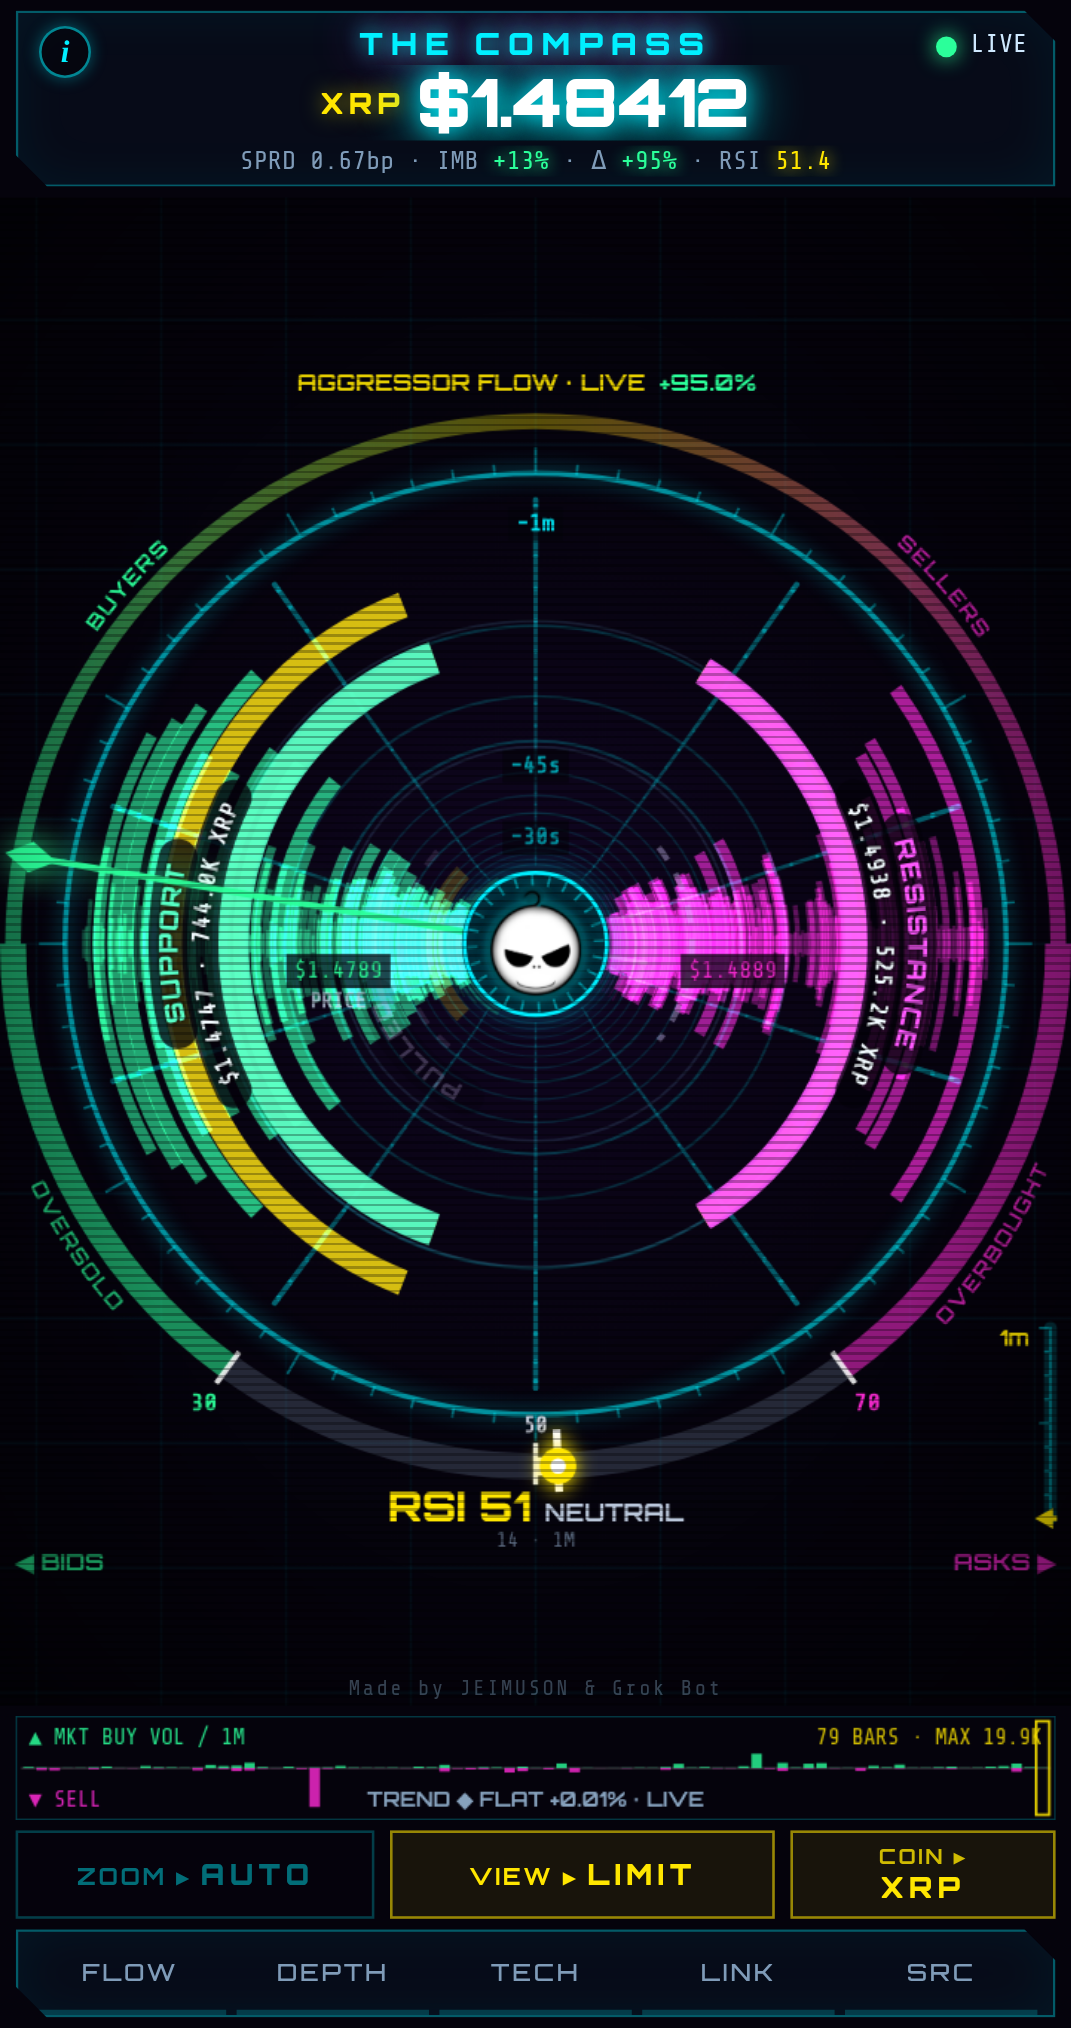
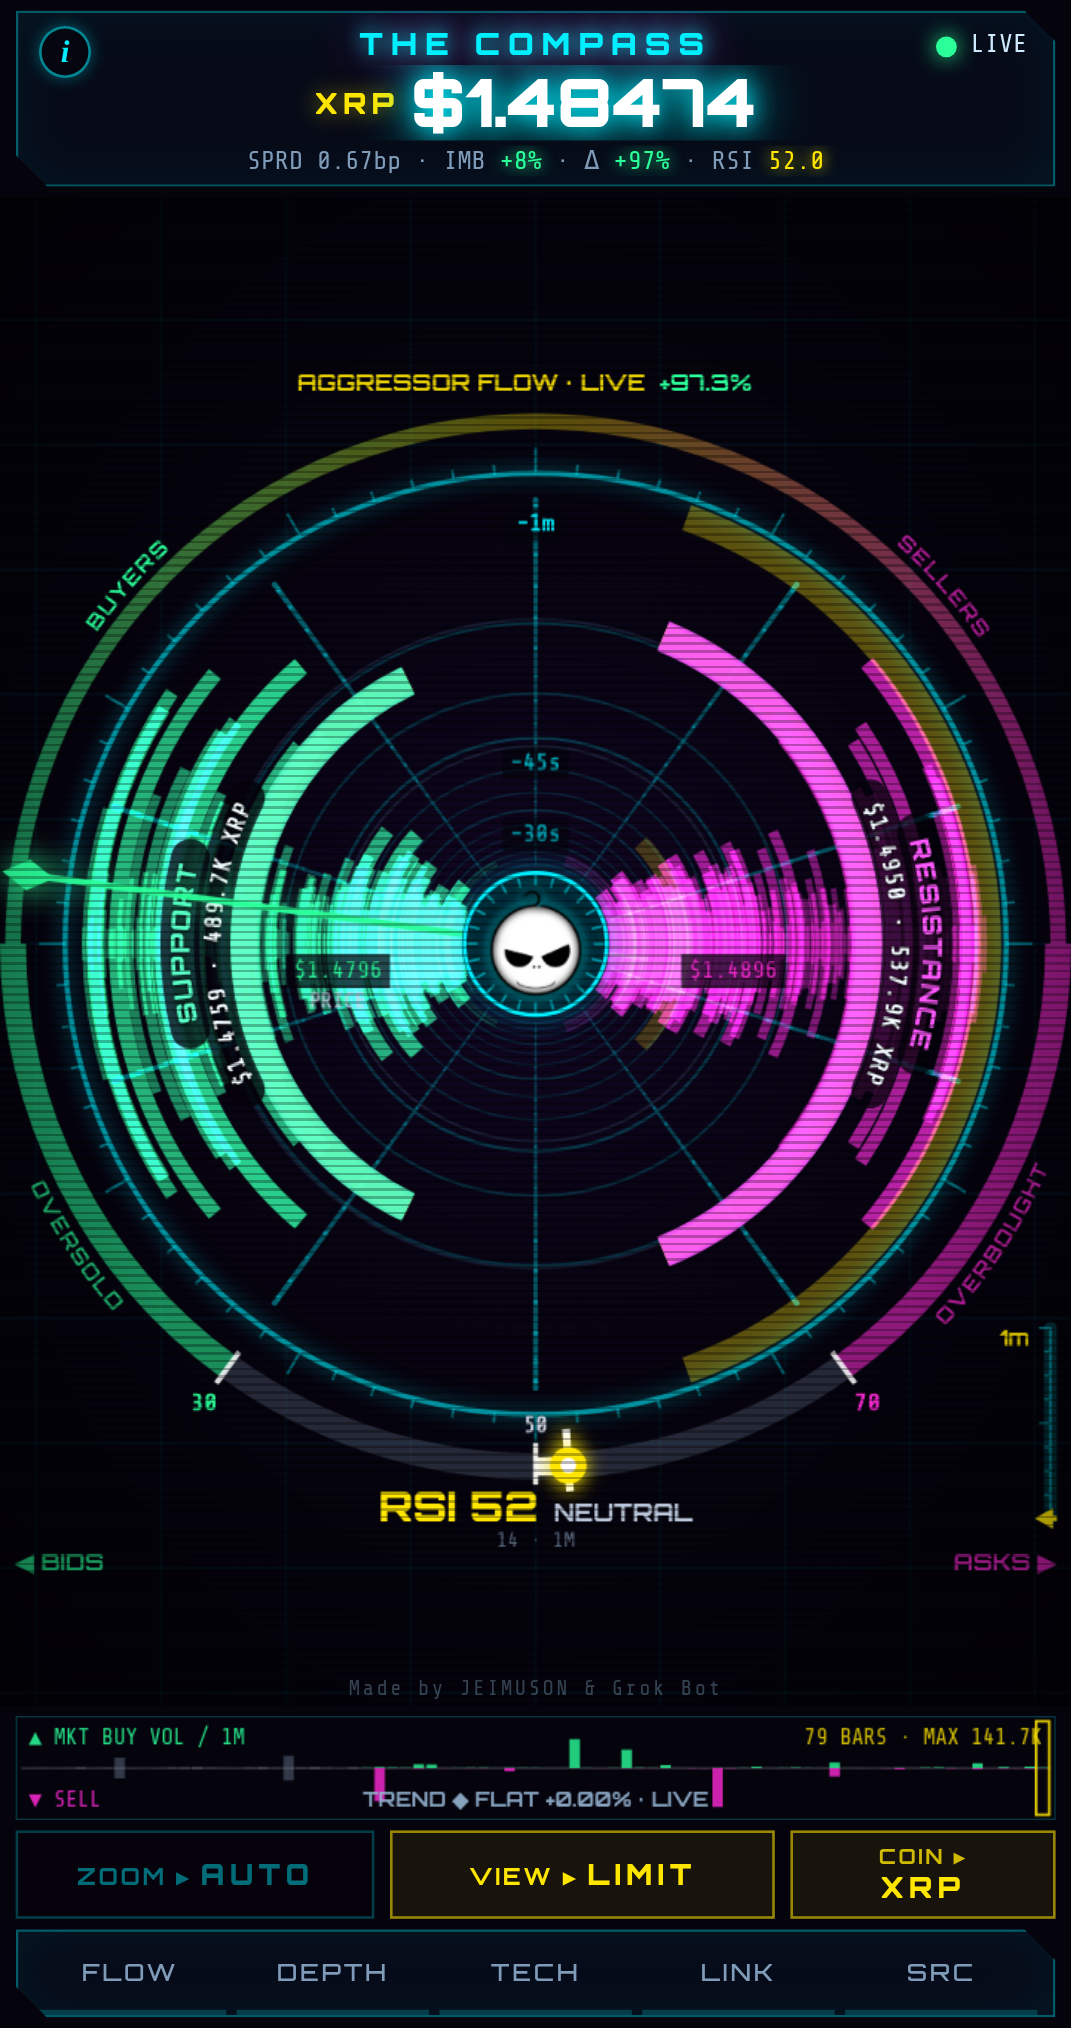
LIMIT AUTO: same traffic measure as MARKET; dead-slow 15s / normal 30s / 2x or burst 60s, MARKET-style ease (build 20261003-1030)

diff --git a/index.html b/index.html
@@ -3,7 +3,7 @@
 <head>
 <meta charset="utf-8">
 <meta http-equiv="Cache-Control" content="no-cache, no-store, must-revalidate"><meta http-equiv="Pragma" content="no-cache"><meta http-equiv="Expires" content="0">
-<script>window.OFC_BUILD='20261003-0725';try{localStorage.removeItem('ofc.trail')}catch(e){};(function(){try{if(!/^https?:/.test(location.protocol))return;fetch(location.pathname+'?_='+Date.now(),{cache:'no-store'}).then(r=>r.text()).then(t=>{const m=t.match(/OFC_BUILD='([^']+)'/);if(m&&m[1]!==window.OFC_BUILD&&sessionStorage.getItem('ofcB')!==m[1]){sessionStorage.setItem('ofcB',m[1]);location.replace(location.pathname+'?v='+m[1]+location.hash);}}).catch(()=>{});}catch(e){}})();</script>
+<script>window.OFC_BUILD='20261003-1030';try{localStorage.removeItem('ofc.trail')}catch(e){};(function(){try{if(!/^https?:/.test(location.protocol))return;fetch(location.pathname+'?_='+Date.now(),{cache:'no-store'}).then(r=>r.text()).then(t=>{const m=t.match(/OFC_BUILD='([^']+)'/);if(m&&m[1]!==window.OFC_BUILD&&sessionStorage.getItem('ofcB')!==m[1]){sessionStorage.setItem('ofcB',m[1]);location.replace(location.pathname+'?v='+m[1]+location.hash);}}).catch(()=>{});}catch(e){}})();</script>
 <script>/* viewport height guard: Android standalone PWAs can report a stale/too-tall 100dvh right after a reload (e.g. coin switch) -> size from the smallest sane measurement and keep re-checking */
 (function(){var R=document.documentElement;function m(){var v=window.visualViewport,c=[window.innerHeight,R.clientHeight];if(v&&v.height>0)c.push(v.height);c=c.filter(function(x){return x>100;});if(!c.length)return;
   var h=Math.round(Math.min.apply(null,c))+'px';if(R.style.getPropertyValue('--apph')!==h){R.style.setProperty('--apph',h);try{window.dispatchEvent(new Event('ofc-vh'));}catch(e){}}}
@@ -203,7 +203,7 @@ body.hublogo #top .logo{display:none}   /* mobile: logo lives in the compass hub
  <li><b>EATEN</b> (bright bite flash) = a wall shrank while trades hit its price. <b>PULLED</b> (ghostly dashed outline) = it vanished with little trading there; repeat pulls in one zone = <b>SPOOF?</b> Just a hint: intent can't be proven.</li></ul>
  <h3>AUTO ZOOM</h3>
  <ul><li><b>MARKET:</b> normal traffic shows ~30s, dead-slow up to 60s. Price moves tighten it; volume bursts snap to a 15s vortex.</li>
- <li><b>LIMIT:</b> quiet = 15s; heavy trading zooms out to 1m so you see walls get hit.</li>
+ <li><b>LIMIT:</b> the reverse, same traffic measure: dead-slow = 15s, normal ~30s, twice normal or a burst zooms out to 1m so you see walls get hit.</li>
  <li><b>AUTO off</b> = full zoom out; then zoom by pinch, wheel or the zoom bar.</li></ul>
  <h3>ALSO</h3>
  <ul><li><b>RSI arc</b> (bottom): momentum. Left = oversold, right = overbought.</li>
@@ -475,9 +475,10 @@ setInterval(()=>{if(VIEW==='market')buildTrail();},250);
 // While it lasts (+ hold) AUTO snaps the window to 15 s (tight vortex), then eases back to the price-move window.
 const BURST_X=3, BURST_MIN_USD=CC.burst, BURST_HOLD=6500, BURST_WIN=15;
 let burst={on:false,until:0,rel:0,r3:0,base:0,usd3:0};
-// LIMIT + AUTO (opposite of MARKET): quiet tape -> 15 s depth; heavier traffic vs the 60 s baseline -> deeper, toward 1 m; burst -> full 1 m.
-// rho = 3 s USD rate / 60 s baseline: rho<=1 -> 15 s, rho=2 -> 30 s, rho>=3 (=BURST_X) or burst -> 60 s (log scale). Deeper targets hold 5 s (burst: +6.5 s burst hold) before easing back in.
-let LT={w:15,hold:0,rho:0};
+// LIMIT + AUTO (reversed MARKET): same traffic measure as MARKET (MT.q = 60 s USD rate / 10 min EMA of it, same burst rule + per-coin BURST_MIN_USD).
+// q lightly smoothed (~4 s) then log-smooth map: q<=0.25 (dead-slow) -> 15 s, q=1 (normal) -> 30 s, q>=2 or burst -> 60 s.
+// Deeper targets apply at once; shallower ones wait 3 s (like MARKET's hold), then ease with MARKET's log-space ease.
+let LT={w:30,hold:0,rho:0,q:1};
 // MARKET + AUTO window: volume sets the baseline (normal -> 30 s, dead-slow -> 60 s); price moves tighten it toward 15 s; a volume burst snaps to 15 s.
 //  q  = 60 s USD rate / 10 min EMA of that rate:   q>=0.6 -> 30 s,  q<=0.25 -> 60 s (log-interp between)
 //  z  = max |mid move| over last 10 s / 5 min EMA of that same measure (typical 10 s move):  z<=1.5 -> no change, z>=4 -> 15 s (log-interp)
@@ -488,8 +489,6 @@ setInterval(()=>{if(!trades.length)return;const n=Date.now();let u3=0,u60=0,old=
   const bspan=Math.min(60,(n-old)/1000-3), base=bspan>=20?u60/bspan:0, r3=u3/3;
   burst.r3=r3;burst.base=base;burst.usd3=u3;
   if(base>0&&r3>=BURST_X*base&&u3>=BURST_MIN_USD)burst.until=n+BURST_HOLD;
-  {const rho=base>0&&u3>=BURST_MIN_USD*0.2?r3/base:0,k=Math.max(0,Math.min(1,(rho-1)/(BURST_X-1)));LT.rho=rho;
-    const wt=n<burst.until?LWMAX:WMIN*Math.pow(LWMAX/WMIN,k);if(wt>=LT.w){LT.w=wt;LT.hold=n+5000;}else if(n>LT.hold)LT.w=wt;}
   {if(!MT.t0)MT.t0=n;const el=(n-MT.t0)/1000,cl=x=>Math.max(0,Math.min(1,x));
     if(mid){MT.mp.push([n,mid]);while(MT.mp.length&&n-MT.mp[0][0]>10000)MT.mp.shift();}
     let mv=0;for(const e of MT.mp)mv=Math.max(mv,Math.abs(mid-e[1]));
@@ -499,7 +498,10 @@ setInterval(()=>{if(!trades.length)return;const n=Date.now();let u3=0,u60=0,old=
     MT.q=bspan>=20&&MT.vb>0?base/MT.vb:1; MT.z=MT.sg>0&&span10>=8?mv/MT.sg:0;
     const kv=cl((MT.q-0.25)/0.35), wv=MWMAX*Math.pow(MBASE/MWMAX,kv), kp=cl((MT.z-1.5)/2.5);
     const wt=n<burst.until?BURST_WIN:wv*Math.pow(WMIN/wv,kp);
-    if(wt<=MT.w){MT.w=wt;MT.hold=n+3000;}else if(n>MT.hold)MT.w=wt;}
+    if(wt<=MT.w){MT.w=wt;MT.hold=n+3000;}else if(n>MT.hold)MT.w=wt;
+    LT.rho=base>0?r3/base:0;LT.q+=(MT.q-LT.q)*(1-Math.exp(-0.25/4));
+    const lq=Math.log2(Math.max(1e-3,LT.q)),g=Math.max(-1,Math.min(1,lq<0?lq/2:lq)),lt=n<burst.until?LWMAX:Math.max(WMIN,Math.min(LWMAX,30*Math.pow(2,g)));
+    if(lt>=LT.w){LT.w=lt;LT.hold=n+3000;}else if(n>LT.hold)LT.w=lt;}
   const was=burst.on;burst.on=n<burst.until;if(was&&!burst.on)burst.rel=n;},250);
 
 // ---------------- trades ----------------
@@ -1821,7 +1823,7 @@ function frame(){
         f=zR(Math.log(MWMAX/Wsel)/Math.log(MWMAX/WMIN));
       }else{f=Math.max(db,da)/mid;}
       f=Math.min(ZMAX,Math.max(ZMIN,f)); fitFrac=f;
-      if(VIEW==='limit'){PFIT=f;if(rangeAuto)rangeFrac=zR(Math.log(LWMAX/LT.w)/Math.log(LWMAX/WMIN));}   // LIMIT: price always auto-fits; AUTO time depth follows traffic (quiet 15 s .. heavy/burst 1 m)
+      if(VIEW==='limit'){PFIT=f;if(rangeAuto)rangeFrac=zR(Math.log(LWMAX/LT.w)/Math.log(LWMAX/WMIN));}   // LIMIT: price always auto-fits; AUTO time depth follows traffic (dead-slow 15 s / normal 30 s / 2x or burst 1 m)
       else if(rangeAuto)rangeFrac=f;}
     if(VIEW==='limit')PRANGE+=(PFIT-PRANGE)*0.05;
     if(intro){
@@ -1829,7 +1831,7 @@ function frame(){
       else{if(!intro.t0)intro.t0=now; const p=Math.min(1,(now-intro.t0)/INTRO_MS), e=p<0.5?4*p*p*p:1-Math.pow(-2*p+2,3)/2;
         rangeAuto=false; rangeFrac=ZMIN*Math.pow(ZMAX/ZMIN,e); dispRange=rangeFrac; intro.set=rangeFrac; if(p>=1)intro=null;}}
     if(!(VIEW==='limit'&&rangeAuto))LT.ft=0;
-    if(!intro){if(VIEW==='market'&&rangeAuto){const ZE=(burst.on||rangeFrac<dispRange)?0.08:(Date.now()-burst.rel<7000?0.022:0.05);/* symmetric: price-driven zoom-in snaps exactly like a volume burst, so up/down react identically regardless of volume */dispRange*=Math.exp(Math.log(rangeFrac/dispRange)*ZE);}else if(VIEW==='limit'&&rangeAuto){const dl=LT.ft?Math.min(0.1,Math.max(0,(now-LT.ft)/1000)):0;LT.ft=now;dispRange*=Math.exp(Math.log(rangeFrac/dispRange)*(1-Math.exp(-dl/(rangeFrac>dispRange?0.8:2.5))));}else dispRange*=Math.exp(Math.log(rangeFrac/dispRange)*0.06);}   /* LIMIT AUTO: ease out to depth fairly quick, ease back in slowly */   // manual: log-space ease (window is log-mapped -> smooth)   // MARKET AUTO: log-space ease (burst: quick snap in; release: slow ease out)   // burst: fast smooth snap in; release: slow ease out dispMid+=(mid-dispMid)*0.2;
+    if(!intro){if(rangeAuto&&(VIEW==='market'||VIEW==='limit')){const ZE=(burst.on||rangeFrac<dispRange)?0.08:(Date.now()-burst.rel<7000?0.022:0.05);/* symmetric: price-driven zoom-in snaps exactly like a volume burst, so up/down react identically regardless of volume */dispRange*=Math.exp(Math.log(rangeFrac/dispRange)*ZE);}else dispRange*=Math.exp(Math.log(rangeFrac/dispRange)*0.06);}   /* LIMIT AUTO: ease out to depth fairly quick, ease back in slowly */   // manual: log-space ease (window is log-mapped -> smooth)   // MARKET AUTO: log-space ease (burst: quick snap in; release: slow ease out)   // burst: fast smooth snap in; release: slow ease out dispMid+=(mid-dispMid)*0.2;
   }
   ctx.fillStyle='rgba(5,3,12,1)';ctx.fillRect(0,0,W,H);
   const bg=ctx.createRadialGradient(CX,CY,0,CX,CY,RMAX*1.6);bg.addColorStop(0,'rgba(30,10,60,.55)');bg.addColorStop(1,'rgba(5,3,12,0)');ctx.fillStyle=bg;ctx.fillRect(0,0,W,H);
@@ -1861,7 +1863,7 @@ function frame(){
 connect();seedREST();
 requestAnimationFrame(frame);
 document.addEventListener('visibilitychange',()=>{if(!document.hidden&&(!ws||ws.readyState>1)){backoff=1000;connect();}});
-window.__ofc={simEat(ms,kind,hold,px){EAT={t0:Date.now(),ms,kind:kind||'eat',hold:hold==null?0:hold,px:px||0,q0:0,lq:null};},get spoof(){return {n:{...SPF.n},trk:SPF.trk.size,ev:SPF.ev.slice(-6).map(o=>({k:o.kind,s:o.side,px:o.px,q0:+o.q0.toFixed(1),q1:+o.q1.toFixed(1),ratio:o.ratio,spoof:o.spoof,big:o.big,ven:o.ven}))}},get eat(){const n=performance.now();return EAT&&{px:EAT.px,q0:EAT.q0,ref:REFQ,cp:history.filter((h,i)=>i%8===0&&(n-h.t)/1000<=LWIN).map(h=>{const e=h.b.find(x=>x[0]===EAT.px);return e?[Math.round((n-h.t)/1000),+levelSpan(e[1],REFQ||h.maxq).toFixed(3)]:null;}).filter(Boolean)}},get mt(){return {w:+MT.w.toFixed(1),q:+MT.q.toFixed(2),z:+MT.z.toFixed(2),sg:MT.sg,burst:burst.on}},get lt(){return {w:+LT.w.toFixed(1),rho:+LT.rho.toFixed(2),lwin:+LWIN.toFixed(1),burst:burst.on}},get keyWalls(){return VIEW==='limit'?{...KEYW,nSig:{bid:topWalls.bid.length,ask:topWalls.ask.length},marks:PLBL.map(q=>q.txt)}:null},simFlat(){SIM={on:true,base:mid,t0:0,dir:0,amp:0,ramp:1};},simMove(dir,frac,ramp){SIM.t0=Date.now();SIM.dir=dir;SIM.amp=frac*SIM.base;SIM.ramp=ramp;},get resp(){const v=proj(HIST_SEC),m=proj(HIST_SEC*0.4);return {tw:+(TWIST_MAX*VSP.w*180/Math.PI).toFixed(2),vp:+(v.y-CY).toFixed(1),vm:+(m.y-CY).toFixed(1),o3:+((window.__ofcR||{}).o3||0).toFixed(1),o8:+((window.__ofcR||{}).o8||0).toFixed(1),mw:+MWIN.toFixed(1),dr:dispRange,pr:pathRef}},get bp(){return BP.length},autoOff(){pillT=0;if(rangeAuto)pillTap();},get dr(){return dispRange},get hubLogo(){return !WIDE&&LOGO.complete&&LOGO.naturalWidth>0},get hdrLogo(){const e=document.querySelector('#top .logo');return !!e&&getComputedStyle(e).display!=='none'},get flares(){return VIEW==='market'?[...FLR.entries()].map(([k,F])=>{const p=F.dx!=null?{x:F.dx,y:F.dy}:null;return {k,T:F.T,tT:trailT,st:trailStep,w:+F.w.toFixed(2),on:!!F.on,side:F.c===COL.bid?'bid':'ask',x:p?Math.round(p.x):null,y:p?Math.round(p.y):null};}):null},winTo(S){intro=null;setAuto(false);syncZA();let lo=0,hi=1;const f=u=>mWinOf(zR(u));const dec=f(0)>f(1);for(let i=0;i<40;i++){const m=(lo+hi)/2;if((f(m)>S)===dec)lo=m;else hi=m;}rangeFrac=zR((lo+hi)/2);return f((lo+hi)/2);},get vring(){if(VIEW!=='market')return null;const p=proj(HIST_SEC);return {full:+(RMAX*p.s).toFixed(1),r:+(RMAX*p.s).toFixed(1),x:Math.round(p.x),y:Math.round(p.y),R0:Math.round(R0)}},get twist(){return VIEW==='market'?+(TWIST_MAX*VSP.w*180/Math.PI).toFixed(1):0},get spin(){return {w:+VSP.w.toFixed(3),ph:+VSP.ph.toFixed(3)}},zManual(){intro=null;setAuto(false);syncZA();},get burst(){return {...burst,now:Date.now()}},simBurst(usd){const px=trades.length?trades[trades.length-1].px:mid,n=Date.now();for(let k=0;k<8;k++)trades.push({t:n-(7-k)*300,side:k%2?'sell':'buy',qty:usd/8/px,px,v:'kraken'});trailDirty=true;},get auto(){return rangeAuto},zAuto(){intro=null;setAuto(true);syncZA();},zIn(){intro=null;setAuto(false);rangeFrac=zR(1);syncZA();},get mwin(){return +MWIN.toFixed(1)},get lwin(){return +LWIN.toFixed(1)},get prange(){return PRANGE},get disp(){return dispRange},get plbl(){return PLBL.map(q=>q.txt)},get hubTxt(){return mid?hubTxt():null},get head(){return {x:Math.round(TRHEAD.x),y:Math.round(TRHEAD.y),CX,CY,R0:Math.round(R0),RMAX:Math.round(RMAX)}},get logo(){const g=logoGeom();return g&&{x:Math.round(g.x),y:Math.round(g.y),S:g.S,CX,CY,RMAX,W,H,Z:zbarGeom()}},get ven(){return Object.fromEntries(Object.entries(VEN).map(([k,v])=>[k,{st:v.st,share:+v.share.toFixed(3),books:BOOKS.filter(B=>B.v===k).map(B=>({k:B.k,q:B.q||'USD',off:!!B.off,prem:B.prem==null?null:+B.prem.toFixed(5),rate:+rateOf(k,B.q).toFixed(5),ready:B.ready,n:B.b.size+B.a.size,ck:B.ckOk,ckBad:B.ckBad,resyncs:B.resyncs}))}]))},get src(){return SRC},setSource,get rates(){return JSON.parse(JSON.stringify(RATE))},simPeg(v,q,r){if(r)PSIM[v+'|'+q]=r;else delete PSIM[v+'|'+q];},get sq(){return SQ},get peg(){return PEG},get rawQ(){const o={};for(const t of RAW){const k=t.v+':'+(t.q||'USD');o[k]=(o[k]||0)+1;}return o},get comb(){return {ready:BREADY,mid,bestBid,bestAsk,nb:sortedB.length,na:sortedA.length}},get raw(){return RAW.length},get flow(){const f=flow(30);return {b:Math.round(f.b),s:Math.round(f.s),r:+f.r.toFixed(3)}},get trendW(){return trendWin()},get win(){return winSec},get heatN(){return Object.fromEntries(Object.entries(HEATS).map(([w,H])=>[w,H.m.size]))},get intro(){return intro},book,get mid(){return mid},get ck(){return {ckOk,ckBad,ckLast}},get trades(){return tradeCount},get bubbles(){return bubbles.length},get hist(){return history.length},get ind(){return ind},get candles(){return candles.size},get dir(){return INBOUND?'in':'out'},get view(){return VIEW},get layout(){return {W,H,CX,CY,RMAX,R0,WIDE}},get tunnel(){const far=proj(HIST_SEC);return {FOCAL,farScale:far.s,farY:far.y-CY,dispRange,fitFrac,rangeAuto,RMAX}},zoom(f){setAuto(false);rangeFrac=Math.min(0.08,Math.max(0.0005,rangeFrac*f));},autoZoom(){setAuto(true);},get autoOn(){return rangeAuto},get zgeom(){return zbarGeom()},get conn(){return connState},get fps(){return FPS},get q(){return Q},get rc(){return reconnects},forceDrop(){ws&&ws.close();}};
+window.__ofc={simEat(ms,kind,hold,px){EAT={t0:Date.now(),ms,kind:kind||'eat',hold:hold==null?0:hold,px:px||0,q0:0,lq:null};},get spoof(){return {n:{...SPF.n},trk:SPF.trk.size,ev:SPF.ev.slice(-6).map(o=>({k:o.kind,s:o.side,px:o.px,q0:+o.q0.toFixed(1),q1:+o.q1.toFixed(1),ratio:o.ratio,spoof:o.spoof,big:o.big,ven:o.ven}))}},get eat(){const n=performance.now();return EAT&&{px:EAT.px,q0:EAT.q0,ref:REFQ,cp:history.filter((h,i)=>i%8===0&&(n-h.t)/1000<=LWIN).map(h=>{const e=h.b.find(x=>x[0]===EAT.px);return e?[Math.round((n-h.t)/1000),+levelSpan(e[1],REFQ||h.maxq).toFixed(3)]:null;}).filter(Boolean)}},get mt(){return {w:+MT.w.toFixed(1),q:+MT.q.toFixed(2),z:+MT.z.toFixed(2),sg:MT.sg,burst:burst.on}},get lt(){return {w:+LT.w.toFixed(1),q:+LT.q.toFixed(2),mq:+MT.q.toFixed(2),rho:+LT.rho.toFixed(2),lwin:+LWIN.toFixed(1),burst:burst.on}},get keyWalls(){return VIEW==='limit'?{...KEYW,nSig:{bid:topWalls.bid.length,ask:topWalls.ask.length},marks:PLBL.map(q=>q.txt)}:null},simFlat(){SIM={on:true,base:mid,t0:0,dir:0,amp:0,ramp:1};},simMove(dir,frac,ramp){SIM.t0=Date.now();SIM.dir=dir;SIM.amp=frac*SIM.base;SIM.ramp=ramp;},get resp(){const v=proj(HIST_SEC),m=proj(HIST_SEC*0.4);return {tw:+(TWIST_MAX*VSP.w*180/Math.PI).toFixed(2),vp:+(v.y-CY).toFixed(1),vm:+(m.y-CY).toFixed(1),o3:+((window.__ofcR||{}).o3||0).toFixed(1),o8:+((window.__ofcR||{}).o8||0).toFixed(1),mw:+MWIN.toFixed(1),dr:dispRange,pr:pathRef}},get bp(){return BP.length},autoOff(){pillT=0;if(rangeAuto)pillTap();},get dr(){return dispRange},get hubLogo(){return !WIDE&&LOGO.complete&&LOGO.naturalWidth>0},get hdrLogo(){const e=document.querySelector('#top .logo');return !!e&&getComputedStyle(e).display!=='none'},get flares(){return VIEW==='market'?[...FLR.entries()].map(([k,F])=>{const p=F.dx!=null?{x:F.dx,y:F.dy}:null;return {k,T:F.T,tT:trailT,st:trailStep,w:+F.w.toFixed(2),on:!!F.on,side:F.c===COL.bid?'bid':'ask',x:p?Math.round(p.x):null,y:p?Math.round(p.y):null};}):null},winTo(S){intro=null;setAuto(false);syncZA();let lo=0,hi=1;const f=u=>mWinOf(zR(u));const dec=f(0)>f(1);for(let i=0;i<40;i++){const m=(lo+hi)/2;if((f(m)>S)===dec)lo=m;else hi=m;}rangeFrac=zR((lo+hi)/2);return f((lo+hi)/2);},get vring(){if(VIEW!=='market')return null;const p=proj(HIST_SEC);return {full:+(RMAX*p.s).toFixed(1),r:+(RMAX*p.s).toFixed(1),x:Math.round(p.x),y:Math.round(p.y),R0:Math.round(R0)}},get twist(){return VIEW==='market'?+(TWIST_MAX*VSP.w*180/Math.PI).toFixed(1):0},get spin(){return {w:+VSP.w.toFixed(3),ph:+VSP.ph.toFixed(3)}},zManual(){intro=null;setAuto(false);syncZA();},get burst(){return {...burst,now:Date.now()}},simBurst(usd){const px=trades.length?trades[trades.length-1].px:mid,n=Date.now();for(let k=0;k<8;k++)trades.push({t:n-(7-k)*300,side:k%2?'sell':'buy',qty:usd/8/px,px,v:'kraken'});trailDirty=true;},get auto(){return rangeAuto},zAuto(){intro=null;setAuto(true);syncZA();},zIn(){intro=null;setAuto(false);rangeFrac=zR(1);syncZA();},get mwin(){return +MWIN.toFixed(1)},get lwin(){return +LWIN.toFixed(1)},get prange(){return PRANGE},get disp(){return dispRange},get plbl(){return PLBL.map(q=>q.txt)},get hubTxt(){return mid?hubTxt():null},get head(){return {x:Math.round(TRHEAD.x),y:Math.round(TRHEAD.y),CX,CY,R0:Math.round(R0),RMAX:Math.round(RMAX)}},get logo(){const g=logoGeom();return g&&{x:Math.round(g.x),y:Math.round(g.y),S:g.S,CX,CY,RMAX,W,H,Z:zbarGeom()}},get ven(){return Object.fromEntries(Object.entries(VEN).map(([k,v])=>[k,{st:v.st,share:+v.share.toFixed(3),books:BOOKS.filter(B=>B.v===k).map(B=>({k:B.k,q:B.q||'USD',off:!!B.off,prem:B.prem==null?null:+B.prem.toFixed(5),rate:+rateOf(k,B.q).toFixed(5),ready:B.ready,n:B.b.size+B.a.size,ck:B.ckOk,ckBad:B.ckBad,resyncs:B.resyncs}))}]))},get src(){return SRC},setSource,get rates(){return JSON.parse(JSON.stringify(RATE))},simPeg(v,q,r){if(r)PSIM[v+'|'+q]=r;else delete PSIM[v+'|'+q];},get sq(){return SQ},get peg(){return PEG},get rawQ(){const o={};for(const t of RAW){const k=t.v+':'+(t.q||'USD');o[k]=(o[k]||0)+1;}return o},get comb(){return {ready:BREADY,mid,bestBid,bestAsk,nb:sortedB.length,na:sortedA.length}},get raw(){return RAW.length},get flow(){const f=flow(30);return {b:Math.round(f.b),s:Math.round(f.s),r:+f.r.toFixed(3)}},get trendW(){return trendWin()},get win(){return winSec},get heatN(){return Object.fromEntries(Object.entries(HEATS).map(([w,H])=>[w,H.m.size]))},get intro(){return intro},book,get mid(){return mid},get ck(){return {ckOk,ckBad,ckLast}},get trades(){return tradeCount},get bubbles(){return bubbles.length},get hist(){return history.length},get ind(){return ind},get candles(){return candles.size},get dir(){return INBOUND?'in':'out'},get view(){return VIEW},get layout(){return {W,H,CX,CY,RMAX,R0,WIDE}},get tunnel(){const far=proj(HIST_SEC);return {FOCAL,farScale:far.s,farY:far.y-CY,dispRange,fitFrac,rangeAuto,RMAX}},zoom(f){setAuto(false);rangeFrac=Math.min(0.08,Math.max(0.0005,rangeFrac*f));},autoZoom(){setAuto(true);},get autoOn(){return rangeAuto},get zgeom(){return zbarGeom()},get conn(){return connState},get fps(){return FPS},get q(){return Q},get rc(){return reconnects},forceDrop(){ws&&ws.close();}};
 })();
 // ---------------- INFO overlay: what am I looking at? (✕ / tap outside / Esc) ----------------
 (function(){const I=document.getElementById('info'),B=document.getElementById('infoBtn');if(!I||!B)return;
